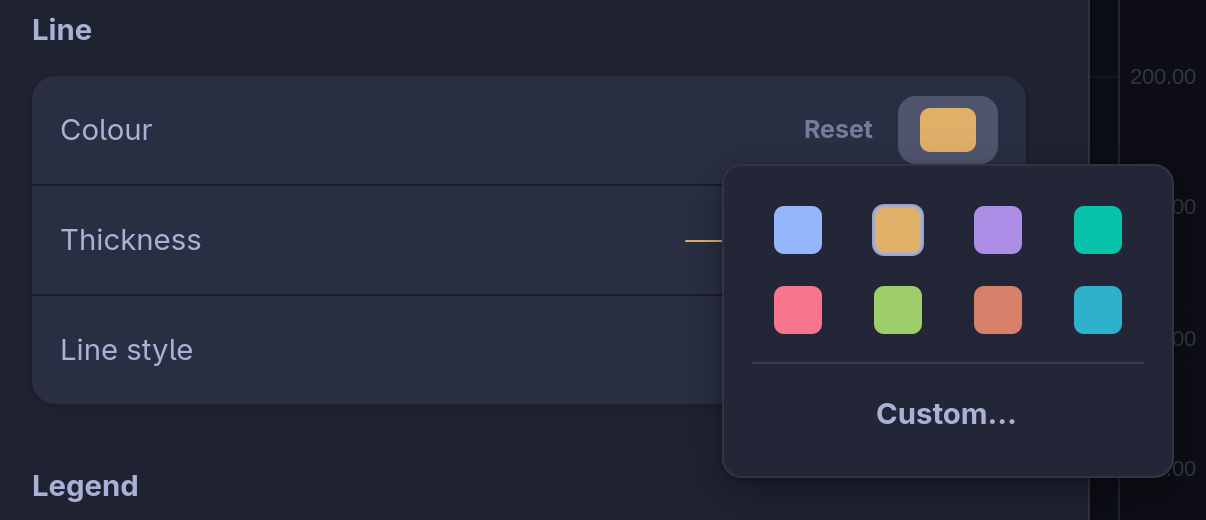
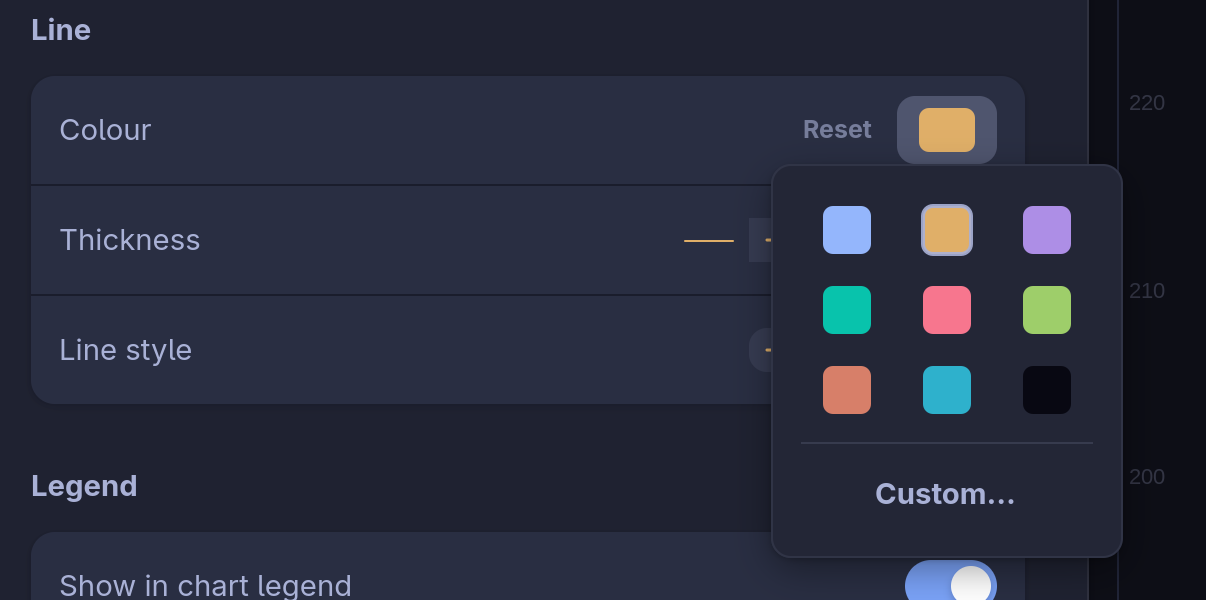
The colour palette has a ninth colour, Neutral, a tone just off the chart's background in the theme's own tint, a navy black on Tokyo Night, a warm brown black on Gruvbox and a soft off-white on a light theme, for outlines, profiles and quiet lines; it is stored by name, follows the theme like the o

diff --git a/crates/omacharts-engine/src/theme.rs b/crates/omacharts-engine/src/theme.rs
@@ -115,6 +115,47 @@ pub const SWATCH_NAMES: [&str; 8] = [
 pub const SWATCH_SEQUENCE: [&str; 6] =
     ["Blue", "Amber", "Violet", "Teal", "Orange", "Cyan"];
 
+/// The palette's one colour without a hue of its own: a tone just off the
+/// chart's background, for an outline, a profile or a line meant to stay
+/// quiet. It is not one of a theme's [`Swatch`]es, because nobody sets it:
+/// it is worked out from the theme each time it is asked for, so it follows
+/// the theme as the others do. See [`Theme::neutral`].
+pub const NEUTRAL: &str = "Neutral";
+
+/// Every name a colour can be picked by, in the order the palette shows
+/// them: the theme's swatches, then [`NEUTRAL`].
+pub const PALETTE_NAMES: [&str; 9] = [
+    "Blue", "Amber", "Violet", "Teal", "Rose", "Green", "Orange", "Cyan", NEUTRAL,
+];
+
+/// How far [`Theme::neutral`] stands from the background, in OKLCh
+/// lightness, when it steps away from the text: far enough to be seen as a
+/// line on the chart, near enough to read as the background's own colour
+/// rather than a grey laid over it.
+const NEUTRAL_STEP: f64 = 0.085;
+
+/// How far it stands when it steps towards the text instead. Further,
+/// because that is the side the grid is on, and a neutral line that could
+/// be taken for a grid line is no use.
+const NEUTRAL_STEP_IN: f64 = 0.10;
+
+/// How far past the grid's lightness a step towards the text has to end.
+const NEUTRAL_PAST_GRID: f64 = 0.05;
+
+/// The darkest and the lightest a step away from the text may end on.
+/// Past these the eye, and most screens, barely separate one tone from the
+/// next: a line a step darker than a near-black chart is a line nobody sees.
+const NEUTRAL_DARKEST: f64 = 0.13;
+const NEUTRAL_LIGHTEST: f64 = 0.985;
+
+/// The most of the theme's tint [`Theme::neutral`] carries, in OKLCh
+/// chroma. Past this a tinted ground's tone stops reading as neutral and
+/// starts reading as a dull blue or brown.
+const NEUTRAL_MAX_CHROMA: f64 = 0.035;
+
+/// Below this a ground's chroma is too slight to take a hue from.
+const NEUTRAL_TINT: f64 = 0.004;
+
 /// The least a companion may be from what it accompanies, as `delta_e` sees
 /// it — the floor consecutive entries of the sequence are held to, and so
 /// the one the rule that usually hands out the next entry has to meet when
@@ -141,10 +182,11 @@ impl ColorChoice {
     pub fn resolve(&self, theme: &Theme) -> String {
         match self {
             ColorChoice::Fixed { hex } => hex.clone(),
-            ColorChoice::Swatch { name } => theme
-                .swatch(name)
-                .map(|s| s.hex.clone())
-                .unwrap_or_else(|| theme.ui.accent.clone()),
+            ColorChoice::Swatch { name } => match theme.swatch(name) {
+                Some(swatch) => swatch.hex.clone(),
+                None if name == NEUTRAL => theme.neutral(),
+                None => theme.ui.accent.clone(),
+            },
         }
     }
 }
@@ -351,6 +393,54 @@ pub fn editable_trading(theme: &Theme) -> TradingLook {
 impl Theme {
     pub fn swatch(&self, name: &str) -> Option<&Swatch> {
         self.swatches.iter().find(|s| s.name == name)
+    }
+
+    /// Every colour the palette offers, as the picker shows them: the
+    /// theme's swatches and then [`NEUTRAL`], worked out from it now.
+    pub fn palette(&self) -> Vec<Swatch> {
+        let mut all = self.swatches.clone();
+        if self.swatch(NEUTRAL).is_none() {
+            all.push(Swatch { name: NEUTRAL.to_string(), hex: self.neutral() });
+        }
+        all
+    }
+
+    /// The theme's neutral: its background taken a step further from its
+    /// text, so blackish on a dark theme and whitish on a light one.
+    ///
+    /// The hue and the tint are the theme's own, from its background, or
+    /// from the first of its panels with any when the background is a pure
+    /// grey, so Tokyo Night's is a navy grey and Gruvbox's a warm brown
+    /// one rather than a black that belongs to no theme. The step is taken
+    /// away from the text when there is room for it, which makes a line
+    /// darker than a dark chart. A ground already near the end of the scale
+    /// has none, a near-black chart or a white one, and there the step goes
+    /// towards the text instead, a little further so as to clear the grid:
+    /// a line whiter than a white chart cannot be had, and an off-white one
+    /// can.
+    pub fn neutral(&self) -> String {
+        let (Some(ground), Some(text)) = (Oklch::of(&self.ui.background), Oklch::of(&self.ui.text)) else {
+            return self.ui.background.clone();
+        };
+        let tint = [&self.ui.background, &self.ui.surface, &self.ui.surface_variant, &self.ui.border]
+            .into_iter()
+            .filter_map(|hex| Oklch::of(hex))
+            .find(|colour| colour.c >= NEUTRAL_TINT)
+            .map(|colour| (colour.c.min(NEUTRAL_MAX_CHROMA), colour.h))
+            .unwrap_or((0.0, 0.0));
+        let grid = Oklch::of(&self.ui.grid).map_or(ground.l, |grid| grid.l);
+        let darker = text.l > ground.l;
+        let away = if darker { ground.l - NEUTRAL_STEP } else { ground.l + NEUTRAL_STEP };
+        let l = if (NEUTRAL_DARKEST..=NEUTRAL_LIGHTEST).contains(&away) {
+            away
+        } else if darker {
+            // Measured from where a step could have ended, not from the
+            // ground: a step up from pure black is still a black.
+            (ground.l.max(NEUTRAL_DARKEST) + NEUTRAL_STEP_IN).max(grid + NEUTRAL_PAST_GRID)
+        } else {
+            (ground.l.min(NEUTRAL_LIGHTEST) - NEUTRAL_STEP_IN).min(grid - NEUTRAL_PAST_GRID)
+        };
+        Oklch { l, c: tint.0, h: tint.1 }.hex()
     }
 
     /// The nth colour to hand an overlay that has not been given one.
@@ -1676,6 +1766,78 @@ pub fn rgb(hex: &str) -> Option<(u8, u8, u8)> {
 #[cfg(test)]
 mod tests {
     use super::*;
+
+    /// A theme of the given ground and text, with nothing else that matters
+    /// to its neutral: the panels and the grid sit on the ground itself.
+    fn grounded(mode: Mode, background: &str, text: &str, grid: &str) -> Theme {
+        let mut theme = midnight();
+        theme.mode = mode;
+        theme.ui.background = background.into();
+        theme.ui.text = text.into();
+        theme.ui.grid = grid.into();
+        theme.ui.surface = background.into();
+        theme.ui.surface_variant = background.into();
+        theme.ui.border = background.into();
+        theme
+    }
+
+    /// The neutral is a name like the others, stored as a name and
+    /// resolved against whichever theme is showing: a step darker than a
+    /// navy chart, in its navy, and on a light one a soft off-white just
+    /// darker than the background, since nothing is lighter than white.
+    #[test]
+    fn the_neutral_is_worked_out_from_a_dark_theme_and_from_a_light_one() {
+        let neutral = ColorChoice::swatch(NEUTRAL);
+
+        // Tokyo Night's ground, with room to go darker.
+        let dark = grounded(Mode::Dark, "#1a1b26", "#a9b1d6", "#24283b");
+        let hex = neutral.resolve(&dark);
+        assert_eq!(hex, dark.neutral());
+        let (ground, tone) = (Oklch::of("#1a1b26").unwrap(), Oklch::of(&hex).unwrap());
+        assert!(tone.l < ground.l, "{hex} is not darker than the chart");
+        assert!(delta_e(&hex, "#1a1b26") >= 0.08, "{hex} cannot be told from the chart");
+        assert!(hue_gap(tone.h, ground.h) < 15.0 && tone.c > 0.01, "{hex} lost the theme's navy");
+
+        // Paper: a warm white, so its neutral is a warm off-white.
+        let light = paper();
+        let hex = neutral.resolve(&light);
+        assert_eq!(hex, light.neutral());
+        let (ground, tone) = (Oklch::of(&light.ui.background).unwrap(), Oklch::of(&hex).unwrap());
+        assert!(tone.l < ground.l && tone.l > 0.8, "{hex} is not an off-white on {}", light.ui.background);
+        assert!(delta_e(&hex, &light.ui.background) >= 0.08, "{hex} cannot be told from the chart");
+        assert!(delta_e(&hex, &light.ui.grid) >= 0.04, "{hex} reads as a grid line");
+        assert!(hue_gap(tone.h, ground.h) < 30.0, "{hex} lost Paper's warmth");
+
+        // The same stored name is a different colour on each.
+        assert_ne!(neutral.resolve(&dark), neutral.resolve(&light));
+    }
+
+    /// A chart already near black has no darker to go to, so its neutral
+    /// steps the other way and clears the grid doing it, rather than being
+    /// a black line on a black chart.
+    #[test]
+    fn a_black_chart_takes_its_neutral_from_the_lighter_side_past_the_grid() {
+        let black = grounded(Mode::Dark, "#000000", "#ffffff", "#191919");
+        let hex = black.neutral();
+        assert!(Oklch::of(&hex).unwrap().l > Oklch::of("#191919").unwrap().l, "{hex}");
+        assert!(delta_e(&hex, "#191919") >= 0.04, "{hex} reads as a grid line");
+
+        let white = grounded(Mode::Light, "#ffffff", "#000000", "#ececec");
+        let hex = white.neutral();
+        assert!(Oklch::of(&hex).unwrap().l < Oklch::of("#ececec").unwrap().l, "{hex}");
+        assert!(delta_e(&hex, "#ececec") >= 0.04, "{hex} reads as a grid line");
+    }
+
+    /// The picker shows the palette in the order the names list it, the
+    /// neutral last, on every built-in theme.
+    #[test]
+    fn the_palette_is_the_swatches_and_then_the_neutral() {
+        for theme in builtin_themes() {
+            let names: Vec<String> = theme.palette().into_iter().map(|s| s.name).collect();
+            assert_eq!(names, PALETTE_NAMES, "{}", theme.name);
+            assert_eq!(theme.palette().last().unwrap().hex, theme.neutral());
+        }
+    }
 
     /// A side is the theme's Blue and Amber, money its up and down, so
     /// the two are never told in the same colours; and the trading colours

diff --git a/src/cli/exec.rs b/src/cli/exec.rs
@@ -19,7 +19,7 @@ use omacharts_engine::indicators::{
 };
 use omacharts_engine::providers;
 use omacharts_engine::theme::{
-    ColorChoice, SWATCH_NAMES, THEME_QUIET_ID, THEME_MONO_ID, THEME_SOFT_ID,
+    ColorChoice, PALETTE_NAMES, THEME_QUIET_ID, THEME_MONO_ID, THEME_SOFT_ID,
 };
 use omacharts_engine::{
     BarStyle, Indicator, IndicatorKind, LinkMode, Reset, Session, Timeframe,
@@ -4165,14 +4165,14 @@ fn colour(m: &clap::ArgMatches, id: &str) -> Result<Option<ColorChoice>, Fault> 
             false => Err(Fault::usage(format!("{text:?} is not a colour; try #rrggbb"))),
         };
     }
-    SWATCH_NAMES
+    PALETTE_NAMES
         .iter()
         .find(|name| name.eq_ignore_ascii_case(text))
         .map(|name| Some(ColorChoice::swatch(name)))
         .ok_or_else(|| {
             Fault::usage(format!(
                 "{text:?} is not a palette colour; try {} — or #rrggbb for one the theme will not change",
-                SWATCH_NAMES.join(", ")
+                PALETTE_NAMES.join(", ")
             ))
         })
 }
@@ -7181,6 +7181,22 @@ mod tests {
         let bad = run("chart indicator add rsi --book Macro --color Chartreuse", &store);
         assert_eq!(bad.code, super::super::EXIT_USAGE);
         assert!(bad.err.contains("Blue"), "the error has to name the palette: {}", bad.err);
+        assert!(bad.err.contains("Neutral"), "the error has to name the neutral too: {}", bad.err);
+    }
+
+    /// The neutral is a palette name like the rest: stored as the name, so
+    /// it is worked out again from whichever theme is showing.
+    #[test]
+    fn the_neutral_is_set_by_name_and_stored_as_one() {
+        let store = bare();
+        run("chartbook create Macro --switch", &store);
+        let added = run("chart indicator add ema --book Macro --color neutral", &store);
+        assert_eq!(added.code, 0, "{}", added.err);
+
+        let listed = run("chart indicator list --book Macro --json", &store);
+        let parsed: serde_json::Value = serde_json::from_str(&listed.out).unwrap();
+        assert_eq!(parsed["indicators"][0]["color"]["kind"], "swatch");
+        assert_eq!(parsed["indicators"][0]["color"]["name"], "Neutral");
     }
 
     #[test]

diff --git a/crates/omacharts-engine/tests/omarchy_themes.rs b/crates/omacharts-engine/tests/omarchy_themes.rs
@@ -694,3 +694,27 @@ fn the_charts_text_is_reported() {
         );
     }
 }
+
+/// Every shipped theme's neutral can be seen on its chart, is not mistaken
+/// for its grid, and carries the theme's tint when the theme has one: a
+/// navy for Tokyo Night, a warm brown for Gruvbox, not a black that
+/// belongs to no theme.
+#[test]
+fn every_shipped_theme_has_a_neutral_of_its_own() {
+    for (name, theme) in fixtures() {
+        let neutral = theme.neutral();
+        assert!(delta_e(&neutral, &theme.ui.background) >= 0.08, "{name}: {neutral} on {}", theme.ui.background);
+        assert!(delta_e(&neutral, &theme.ui.grid) >= 0.04, "{name}: {neutral} reads as the grid {}", theme.ui.grid);
+        let ground = Oklch::of(&theme.ui.background).unwrap();
+        if ground.c >= 0.015 {
+            let tone = Oklch::of(&neutral).unwrap();
+            assert!(hue_gap(tone.h, ground.h) < 20.0, "{name}: {neutral} lost the hue of {}", theme.ui.background);
+        }
+    }
+    let by_name = |wanted: &str| fixtures().into_iter().find(|(name, _)| name == wanted).unwrap().1;
+    let tokyo = by_name("tokyo-night");
+    let (ground, tone) = (Oklch::of(&tokyo.ui.background).unwrap(), Oklch::of(&tokyo.neutral()).unwrap());
+    assert!(tone.l < ground.l, "tokyo-night's neutral is not darker than its chart");
+    let gruvbox = Oklch::of(&by_name("gruvbox").neutral()).unwrap();
+    assert!(gruvbox.c > 0.005 && (20.0..90.0).contains(&gruvbox.h), "gruvbox's neutral is not warm: {gruvbox:?}");
+}

diff --git a/src/ui/palette.rs b/src/ui/palette.rs
@@ -20,7 +20,9 @@ use omacharts_engine::theme::{ColorChoice, Theme};
 use crate::ui::colors;
 
 const SWATCH: i32 = 26;
-const COLUMNS: i32 = 4;
+/// Nine colours, the eight with a hue and the neutral, as a square: three
+/// rows of three, the neutral last, in the corner by itself.
+const COLUMNS: i32 = 3;
 
 /// A button showing `resolved`, which opens the theme's palette.
 ///
@@ -81,7 +83,7 @@ fn palette_box(
     let grid = gtk::Grid::new();
     grid.set_row_spacing(4);
     grid.set_column_spacing(4);
-    for (n, swatch) in theme.swatches.iter().enumerate() {
+    for (n, swatch) in theme.palette().iter().enumerate() {
         let picked = current_name.as_deref() == Some(swatch.name.as_str());
         let cell = gtk::Button::new();
         cell.add_css_class("flat");

diff --git a/src/cli/spec.rs b/src/cli/spec.rs
@@ -357,7 +357,7 @@ const AGENT_FLAGS: &[Flag] = &[
 ];
 
 pub const COLOUR: &str =
-    "a palette name — Blue, Amber, Violet, Teal, Rose, Green, Orange, Cyan — \
+    "a palette name — Blue, Amber, Violet, Teal, Rose, Green, Orange, Cyan, Neutral — \
      which follows the theme, or #rrggbb, which does not";
 
 /// Everything `chart indicator` takes, and `template indicator` after the
@@ -1690,7 +1690,7 @@ mod tests {
     /// ignored rather than wrong.
     #[test]
     fn the_colours_the_help_names_are_the_ones_every_theme_carries() {
-        for name in omacharts_engine::theme::SWATCH_NAMES {
+        for name in omacharts_engine::theme::PALETTE_NAMES {
             assert!(COLOUR.contains(name), "the help does not mention {name}");
         }
     }

diff --git a/site/manual/themes.md b/site/manual/themes.md
@@ -117,6 +117,8 @@ The palette is the theme's named colours for indicators and drawings. An indicat
 
 An indicator added without a colour gets the next of Blue, Amber, Violet, Teal, Orange and Cyan not already on the chart. After six they repeat. Green and Rose are never given automatically, but you can pick them.
 
+**Neutral** is a tone just off the chart's background, in the theme's own tint: a little darker than the background on a dark theme, and a soft off-white on a light one. It suits outlines, profiles and quiet lines. It comes from the theme's background, so it has no row in the theme editor, and like the rest of the palette it changes with the theme. It is never given automatically.
+
 ### The palette picker
 
 A colour button in the indicator and drawing dialogs opens the theme's palette first.
@@ -128,14 +130,14 @@ state:
   move 1270 790
   omacharts chart set --symbol NVDA --resolution 1D
   omacharts chart indicator add sma --period 50 --color Amber
-  key ctrl+i
-  click 480 456          # the SMA 50 row
-  click 849 392          # its Colour swatch
+  key ctrl+i              # twice: a fresh window swallows its first chord
+  click 503 291          # the SMA 50 row
+  click 849 315          # its Colour swatch
   move 1270 790
 capture: bin/headless-window shot /tmp/picker.png
-crop: 750,656,1206,520   (the Line group and the palette, 16px layout margin round both)
+crop: 751,500,1206,600   (the Line group and the palette, 16px layout margin round both)
 -->
-{% include figure.html src="/assets/manual/themes/palette-picker.png" alt="The palette picker open under an indicator's Colour row, with the colour in use ringed and Custom… below" caption="The palette picker." %}
+{% include figure.html src="/assets/manual/themes/palette-picker.png" alt="The palette picker open under an indicator's Colour row: nine colours in three rows, Neutral last, the colour in use ringed and Custom… below" caption="The palette picker." %}
 
 | Choice | When the theme changes |
 |---|---|

diff --git a/site/manual/indicators.md b/site/manual/indicators.md
@@ -235,7 +235,7 @@ A paste is a new indicator with the same settings, on the chart that has the key
 
 An indicator with no chosen colour takes the first of the theme's sequence (Blue, Amber, Violet, Teal, Orange, Cyan) that no other indicator on the chart is using. When all are in use, they repeat. Adding an indicator never changes the colours already on the chart. [Session Times](/manual/indicators/session-times/) is the exception: it shades without a colour of its own unless one is chosen.
 
-A **palette name** (Blue, Amber, Violet, Teal, Rose, Green, Orange, Cyan) is the theme's colour of that name and follows the theme when it changes. A **custom** colour, picked exactly or typed as a hex such as `#e0af68`, stays the same in every theme.
+A **palette name** (Blue, Amber, Violet, Teal, Rose, Green, Orange, Cyan, Neutral) is the theme's colour of that name and follows the theme when it changes. A **custom** colour, picked exactly or typed as a hex such as `#e0af68`, stays the same in every theme.
 
 Each **Colour** row opens the theme's palette ([Themes and colours](/manual/themes/)). **Custom…** under it picks an exact colour. **Reset** beside the swatch goes back to the automatic colour.
 

diff --git a/site/manual/cli.md b/site/manual/cli.md
@@ -572,7 +572,7 @@ are in [Indicators](/manual/indicators/) and the page of its family.
 | `--legend B` | `on`, `off`; `on` for a new indicator, `off` for Session Times | Any. Whether the chart's legend names it. It is drawn either way |
 
 A colour is a palette name (`Blue`, `Amber`, `Violet`, `Teal`, `Rose`,
-`Green`, `Orange`, `Cyan`, capitals ignored) or `#rrggbb`. A palette name follows
+`Green`, `Orange`, `Cyan`, `Neutral`, capitals ignored) or `#rrggbb`. A palette name follows
 the theme; a hex does not.
 
 Volume and a volume profile are bars, not lines, so `--width` and `--style`

diff --git a/doc/cli.md b/doc/cli.md
@@ -140,7 +140,7 @@ omacharts chart profile merge --at 2026-10-28
 
 Colours come in two kinds, and the difference matters:
 
-- **A palette name** — Blue, Amber, Violet, Teal, Rose, Green, Orange, Cyan —
+- **A palette name** — Blue, Amber, Violet, Teal, Rose, Green, Orange, Cyan, Neutral —
   is re-resolved every time the desktop theme changes, so the indicator follows
   the theme.
 - **`#rrggbb`** is the exact colour you picked, and is never touched again.
